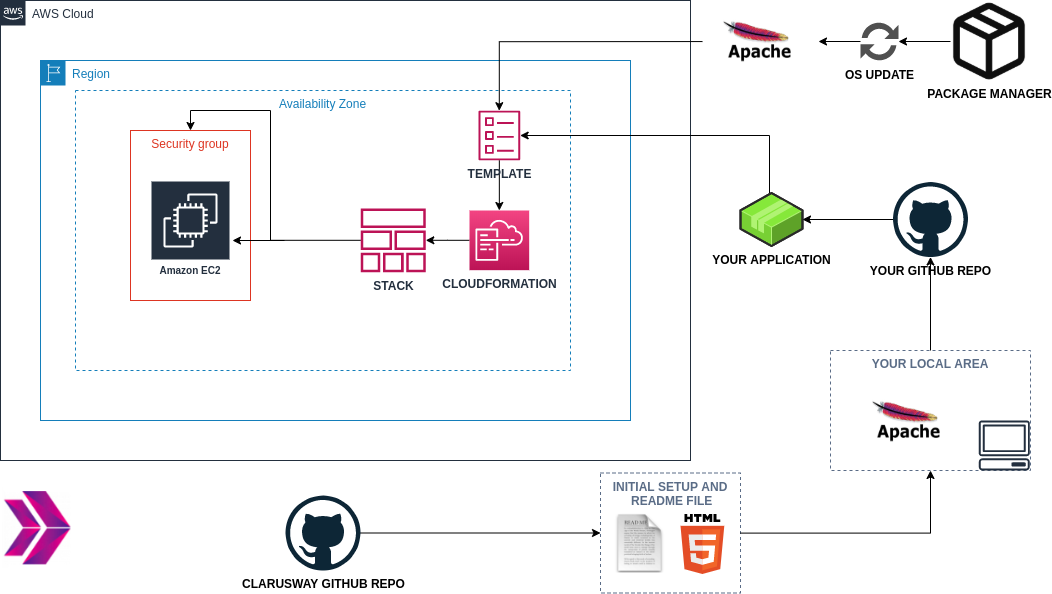
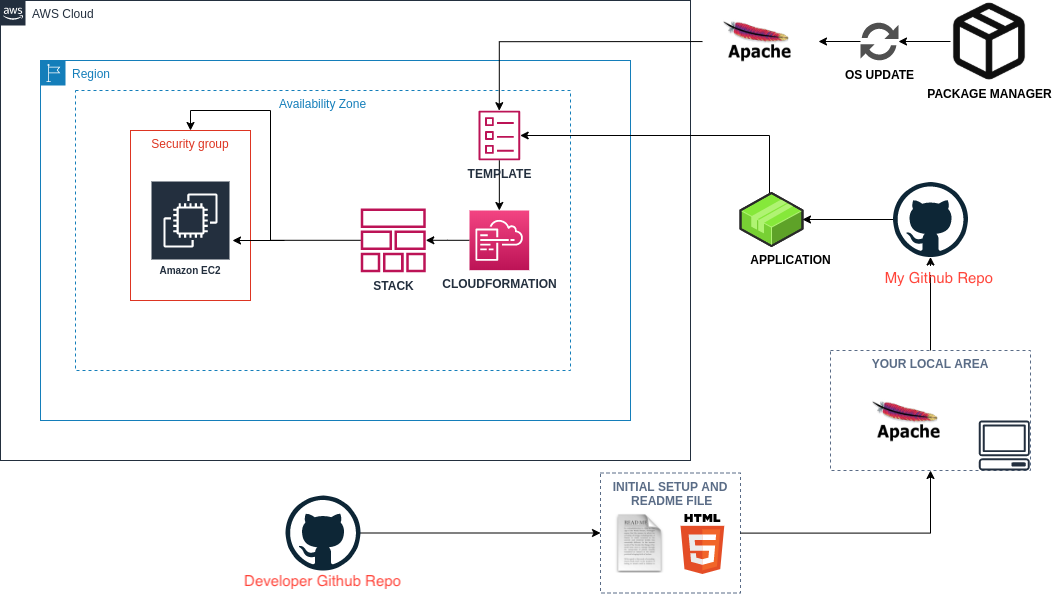
T-101 added

diff --git a/aws/projects/Project-104 kittens-carousel-static-web-s3-cf/static-web/index.html b/aws/projects/Project-104 kittens-carousel-static-web-s3-cf/static-web/index.html
@@ -1,0 +1,85 @@
+<!DOCTYPE html>
+<html lang="en">
+
+<head>
+  <meta charset="UTF-8" />
+  <meta name="viewport" content="width=device-width, initial-scale=1.0" />
+  <title>Clarusway Project - 001</title>
+  <link rel="stylesheet" href="https://maxcdn.bootstrapcdn.com/bootstrap/3.4.1/css/bootstrap.min.css">
+  <script src="https://ajax.googleapis.com/ajax/libs/jquery/3.5.1/jquery.min.js"></script>
+  <script src="https://maxcdn.bootstrapcdn.com/bootstrap/3.4.1/js/bootstrap.min.js"></script>
+  <style>
+    body {
+      max-width: 600px;
+      margin: auto;
+    }
+
+    div {
+      margin-top: 100px;
+      margin-bottom: 50px;
+      margin-right: auto;
+      margin-left: auto;
+    }
+
+    img {
+      display: block;
+      margin-left: auto;
+      margin-right: auto;
+
+    }
+
+    .footnote {
+      color: rgba(0, 0, 255, 0.712);
+    }
+
+    .carousel {
+      height: 600px;
+      background-color: lightgreen;
+
+    }
+  </style>
+</head>
+
+<body>
+
+  <div><img src="./header.jpeg" /></div>
+
+  <h2> Project: Captain Demir's Kittens Carousel</h2>
+
+  <div id="myCarousel" class="carousel slide" data-ride="carousel">
+    <!-- Indicators -->
+    <ol class="carousel-indicators">
+      <li data-target="#myCarousel" data-slide-to="0" class="active"></li>
+      <li data-target="#myCarousel" data-slide-to="1"></li>
+      <li data-target="#myCarousel" data-slide-to="2"></li>
+    </ol>
+
+    <!-- Wrapper for slides -->
+    <div class="carousel-inner">
+      <div class="item active">
+        <img src="./cat0.jpg" alt="Cuties First">
+      </div>
+      <div class="item">
+        <img src="./cat1.jpg" alt="Cuties Second">
+      </div>
+      <div class="item">
+        <img src="./cat2.jpg" alt="Cuties Third">
+      </div>
+    </div>
+
+    <!-- Left and right controls -->
+    <a class="left carousel-control" href="#myCarousel" data-slide="prev">
+      <span class="glyphicon glyphicon-chevron-left"></span>
+      <span class="sr-only">Previous</span>
+    </a>
+    <a class="right carousel-control" href="#myCarousel" data-slide="next">
+      <span class="glyphicon glyphicon-chevron-right"></span>
+      <span class="sr-only">Next</span>
+    </a>
+  </div>
+
+
+  <p class="footnote"><i>This static website is deployed by <b> Captain Demir </b> on AWS S3, served through Cloudfront and Route 53 using AWS Clouldformation Service.</i></p>
+</body>
+
+</html>

diff --git a/aws/projects/Project-104 kittens-carousel-static-web-s3-cf/README.md b/aws/projects/Project-104 kittens-carousel-static-web-s3-cf/README.md
@@ -1,0 +1,139 @@
+# Project-104 : Kittens Carousel Static Website deployed on AWS Cloudfront, S3 and Route 53 using Cloudformation
+
+## Description
+
+Kittens Carousel is a static website application deployed on AWS Simple Storage Service (S3), served through Cloudfront and Route 53 using AWS Cloudformation Service.
+
+## Problem Statement
+
+![Project_104](Project_104.png)
+
+- Your company has recently started a web application project that will serve as an attraction point for pet lovers. As a first step of the project, you have deployed the app on EC2 instance and showed that design is good and working, thus you can go to next step. Developers in your team have prepared kittens carousel application and pushed necessary files for the project to the repository on Github.
+
+- Your task is to deploy the application as static web page in the production environment. Thus, you need to deploy the web application using the `index.html` and an images given within the `static-web` folder. Note the followings for your web application.
+  
+  - User should face first with `index.html` when web app started.
+
+  - Application should be deployed on AWS S3 as static website.
+
+  - Application should be served to public through domain name of the company using AWS Cloudfront and Route 53. Thus, you need to prepare a Cloudformation template with following configurations;
+
+    - The application stack should be created with new AWS resources.
+
+    - The application stack should take two parameters from the user;
+
+      - The DNS name of an existing Amazon Route 53 hosted zone e.g. `captaindemir.com`
+
+      - The full domain name e.g. `kittens.captaindemir.com` for the web application
+
+    - The Web Application files should be served from S3 bucket which should be configured as a static website host and the content should be reachable from anywhere.
+
+    - Cloudfront should be set as a cache server which points to S3 bucket of the web app with following configurations;
+
+      - The cloudfront distribution should be connected to the full domain name of the application.
+
+      - The cloudfront distribution should communicate with S3 bucket securely.
+
+      - The cloudfront distribution should default to `index.html`.
+
+      - HTTP version 2 should be employed.
+
+      - As cache behavior;
+
+        - `GET` and `HEAD` methods should be allowed.
+
+        - Cookies should not be forwarded to bucket.
+
+        - All request should be redirected to HTTPS.
+
+        - Newly created ACM Certificate should be used for securing connections.
+
+    - Within Route 53 a record set should be configured to send requests to the Cloudfront distribution.  
+
+    - After the stack created, following outputs should be given;
+
+      - Full DomainName of Kittens Carousel Application
+
+      - Endpoint for Kittens Cloudfront Distribution
+
+      - Name of S3 Bucket for Kittens Website
+
+  - The Application files should be uploaded to the application S3 bucket from local git repo using AWS CLI commands.
+
+## Project Skeleton
+
+```text
+006-kittens-carousel-static-web-s3-cf (folder)
+|
+|----readme.md              # (Definition of the project)
+|----cfn-template.yml       # (Cloudformation template)
+|----upload-script.sh       # (Script to upload website content to S3)
+|----static-web
+        |----index.html     # (HTML file)
+        |----cat0.jpg       # (image file)
+        |----cat1.jpg       # (image file)
+        |----cat2.jpg       # (image file)
+```
+
+
+### At the end of the project, following topics are to be covered;
+
+- Static Website Deployment
+
+- Bash scripting
+
+- AWS Simple Storage Service
+
+- AWS Cloudfront Distribution
+
+- AWS Certificate Manager
+
+- AWS Route 53 Service
+
+- AWS Cloudformation Service
+
+- AWS Cloudformation Template Design
+
+- Git & Github for Version Control System
+
+### At the end of the project, students will be able to;
+
+- demonstrate bash scripting skills using AWS CLI to upload the application files to S3 bucket.
+
+- configure S3 buckets through Cloudformation.
+
+- configure ACM Certificate through Cloudformation.
+
+- configure Cloudfront through Cloudformation.
+
+- configure Route 53 record set through Cloudformation.
+
+- configure Cloudformation template to use AWS Resources.
+
+- use AWS Cloudformation Service to launch stacks.
+
+- use git commands (push, pull, commit, add etc.) and Github as Version Control System.
+
+## Steps to Solution
+  
+- Step 1: Download or clone project definition from `Developer` repo on Github
+
+- Step 2: Create project folder for local public repo on your pc
+
+- Step 3: Prepare a cloudformation template to deploy your app
+
+- Step 4: Deploy your application on AWS Cloud using Cloudformation template
+
+- Step 5: Upload your application files into S3 bucket from your local git repo
+
+## Notes
+
+- Customize the application by hard-coding your name instead of `your_name` within `index.html`.
+
+- Use `bash upload-script.sh` to invoke upload script.
+
+## Resources
+
+- [AWS Cloudformation User Guide](https://docs.aws.amazon.com/AWSCloudFormation/latest/UserGuide/Welcome.html)
+
+- [AWS CLI Command Reference](https://docs.aws.amazon.com/cli/latest/index.html)

diff --git a/aws/projects/Project-101-kittens-carousel-static-website-ec2/README.md b/aws/projects/Project-101-kittens-carousel-static-website-ec2/README.md
@@ -36,18 +36,15 @@ Kittens Carousel is a static website application deployed with Apache Web Server
 ```
 101-kittens-carousel-static-website-ec2 (folder)
 |
-|----readme.md         # Given to the students (Definition of the project)          
-|----cfn-template.yml  # To be delivered by students (Cloudformation template)
+|----readme.md         #  (Definition of the project)          
+|----cfn-template.yml  #  (Cloudformation template)
 |----static-web
-        |----index.html  # Given to the students (HTML file)
-        |----cat0.jpg    # Given to the students (image file)
-        |----cat1.jpg    # Given to the students (image file)
-        |----cat2.jpg    # Given to the students (image file)
+        |----index.html  # (HTML file)
+        |----cat0.jpg    #  (image file)
+        |----cat1.jpg    #  (image file)
+        |----cat2.jpg    #  (image file)
 ```
 
-## Expected Outcome
-
-![Project 101 : Kittens Carousel Application Snapshot](./project-101-snapshot.png)
 
 ### At the end of the project, following topics are to be covered;
 
@@ -83,7 +80,7 @@ Kittens Carousel is a static website application deployed with Apache Web Server
 
 ## Steps to Solution
   
-- Step 1: Download or clone project definition from `clarusway` repo on Github 
+- Step 1: Download or clone project definition from `Developer` repo on Github 
 
 - Step 2: Create project folder for local public repo on your pc
 
@@ -93,9 +90,6 @@ Kittens Carousel is a static website application deployed with Apache Web Server
 
 - Step 5: Deploy your application on AWS Cloud using Cloudformation template to showcase your app within your team.
 
-## Notes
-
-- Customize the application by hard-coding your name instead of `student_name` within `index.html`.
 
 ## Resources
 
